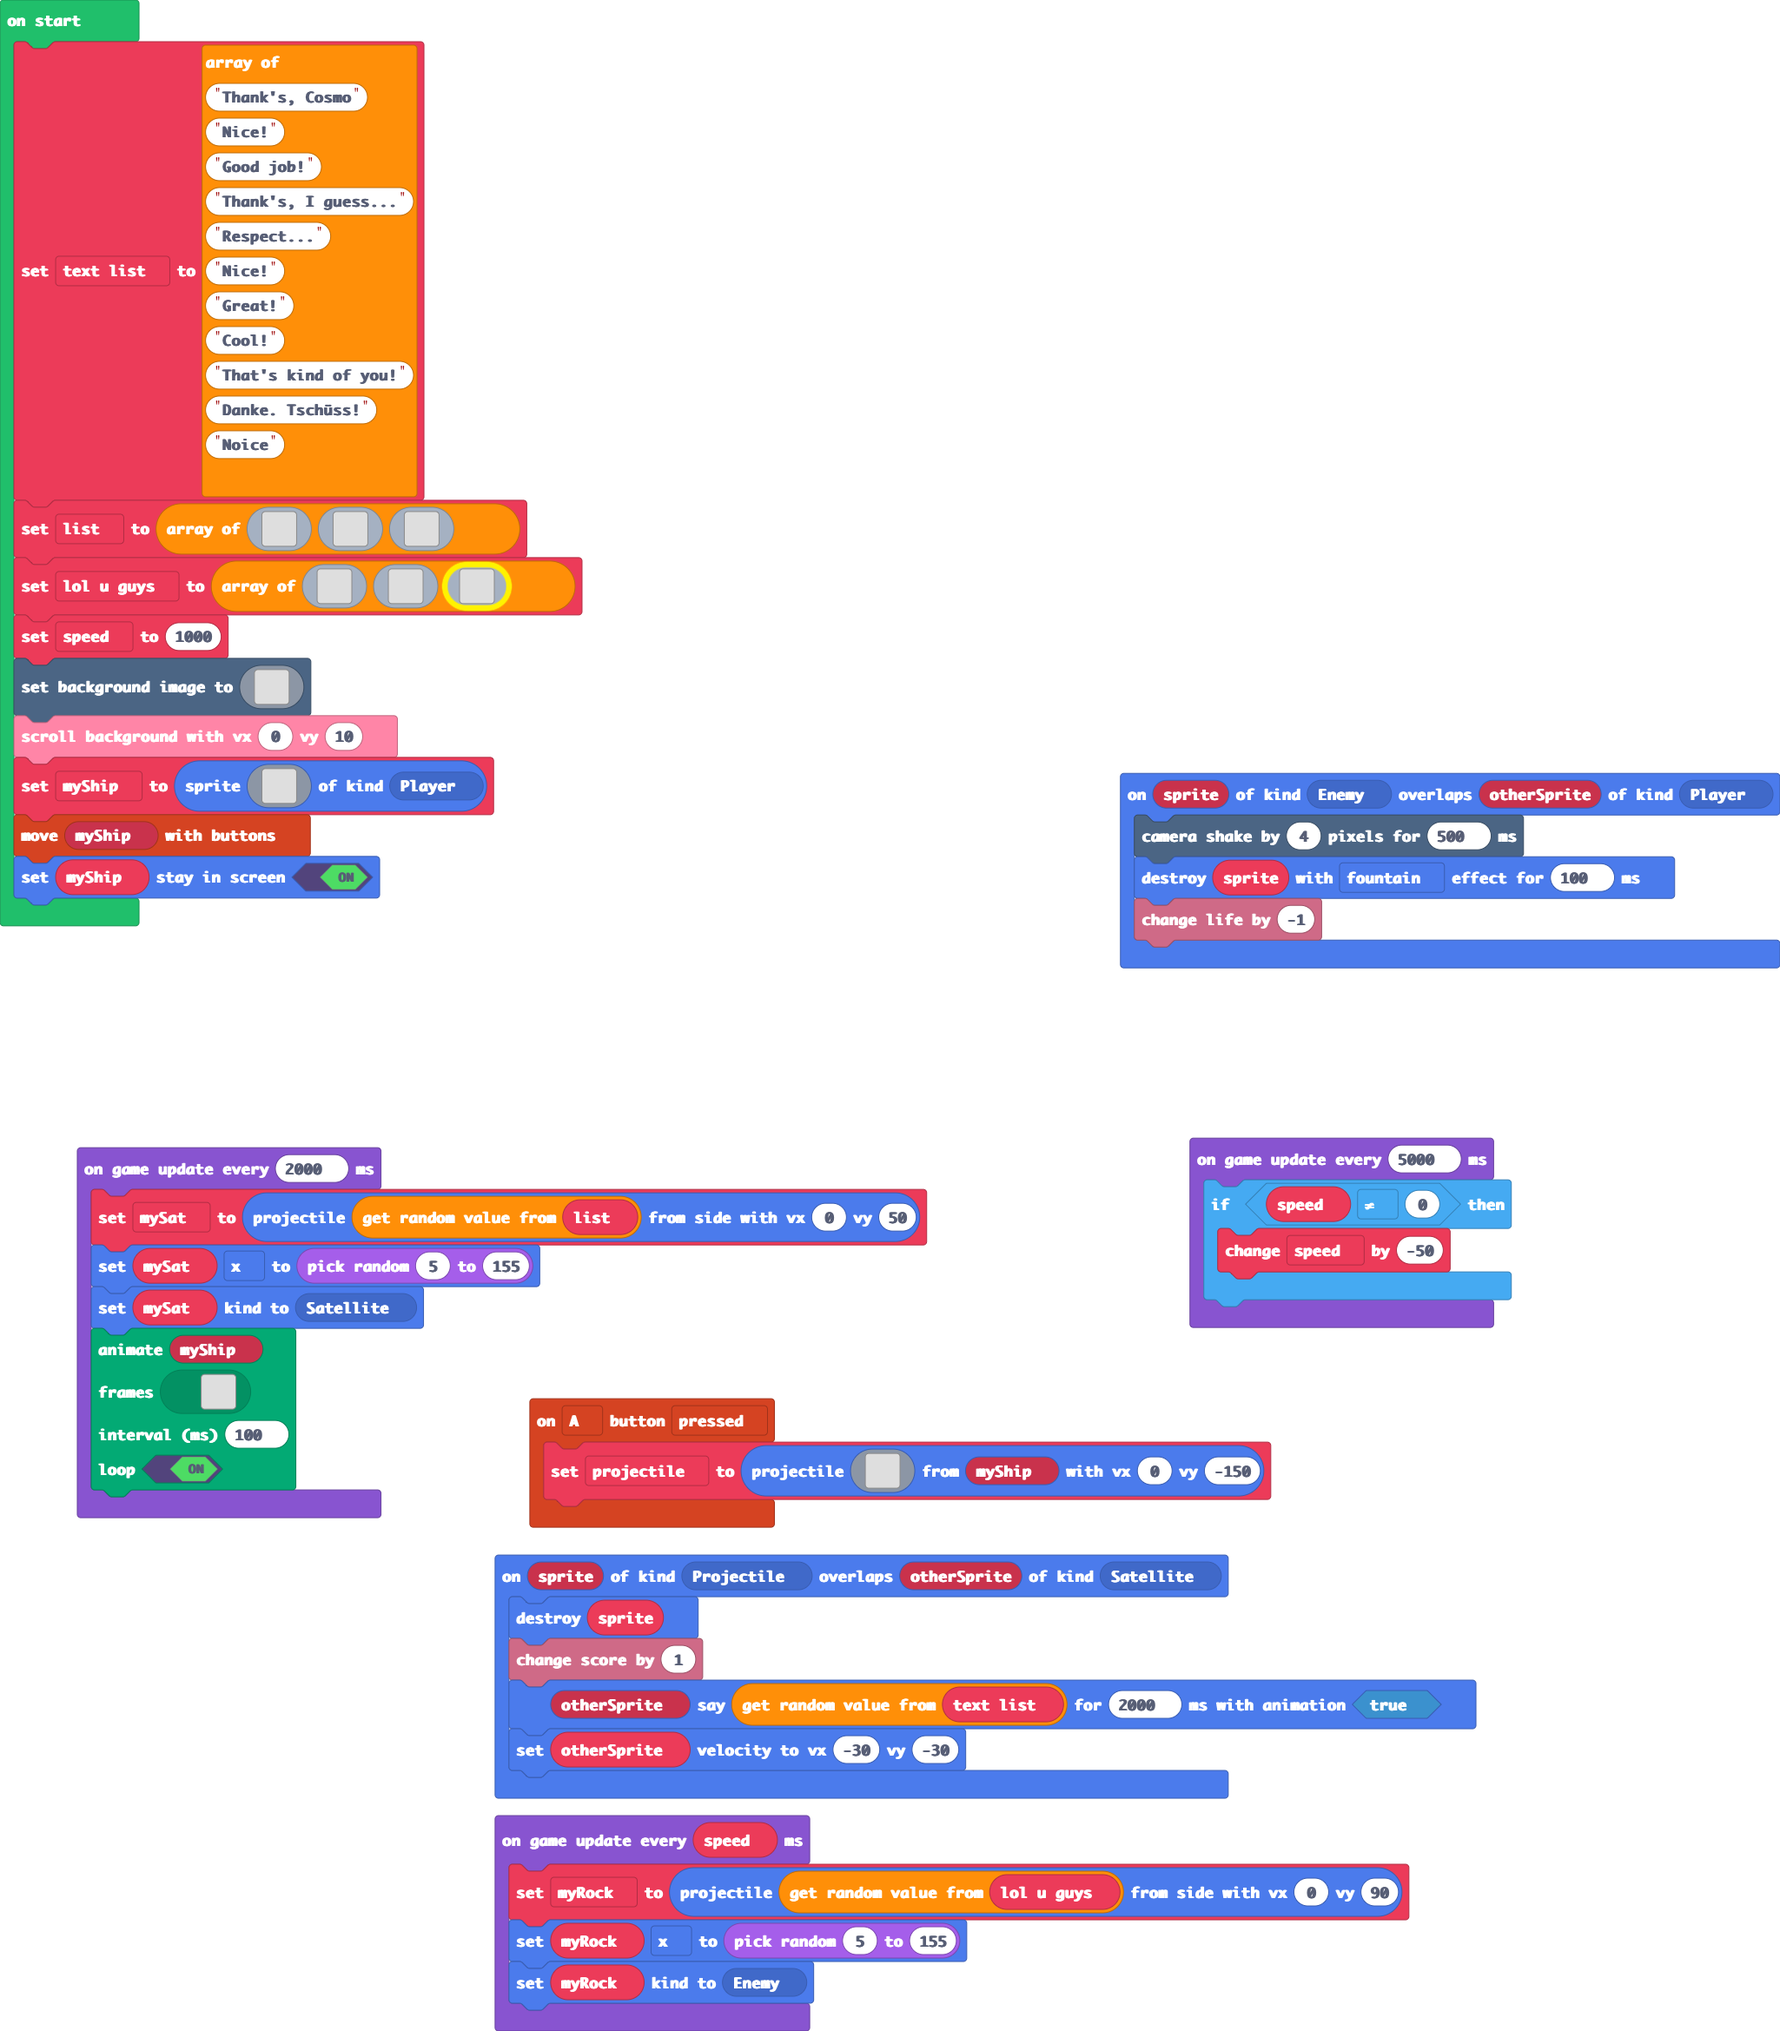
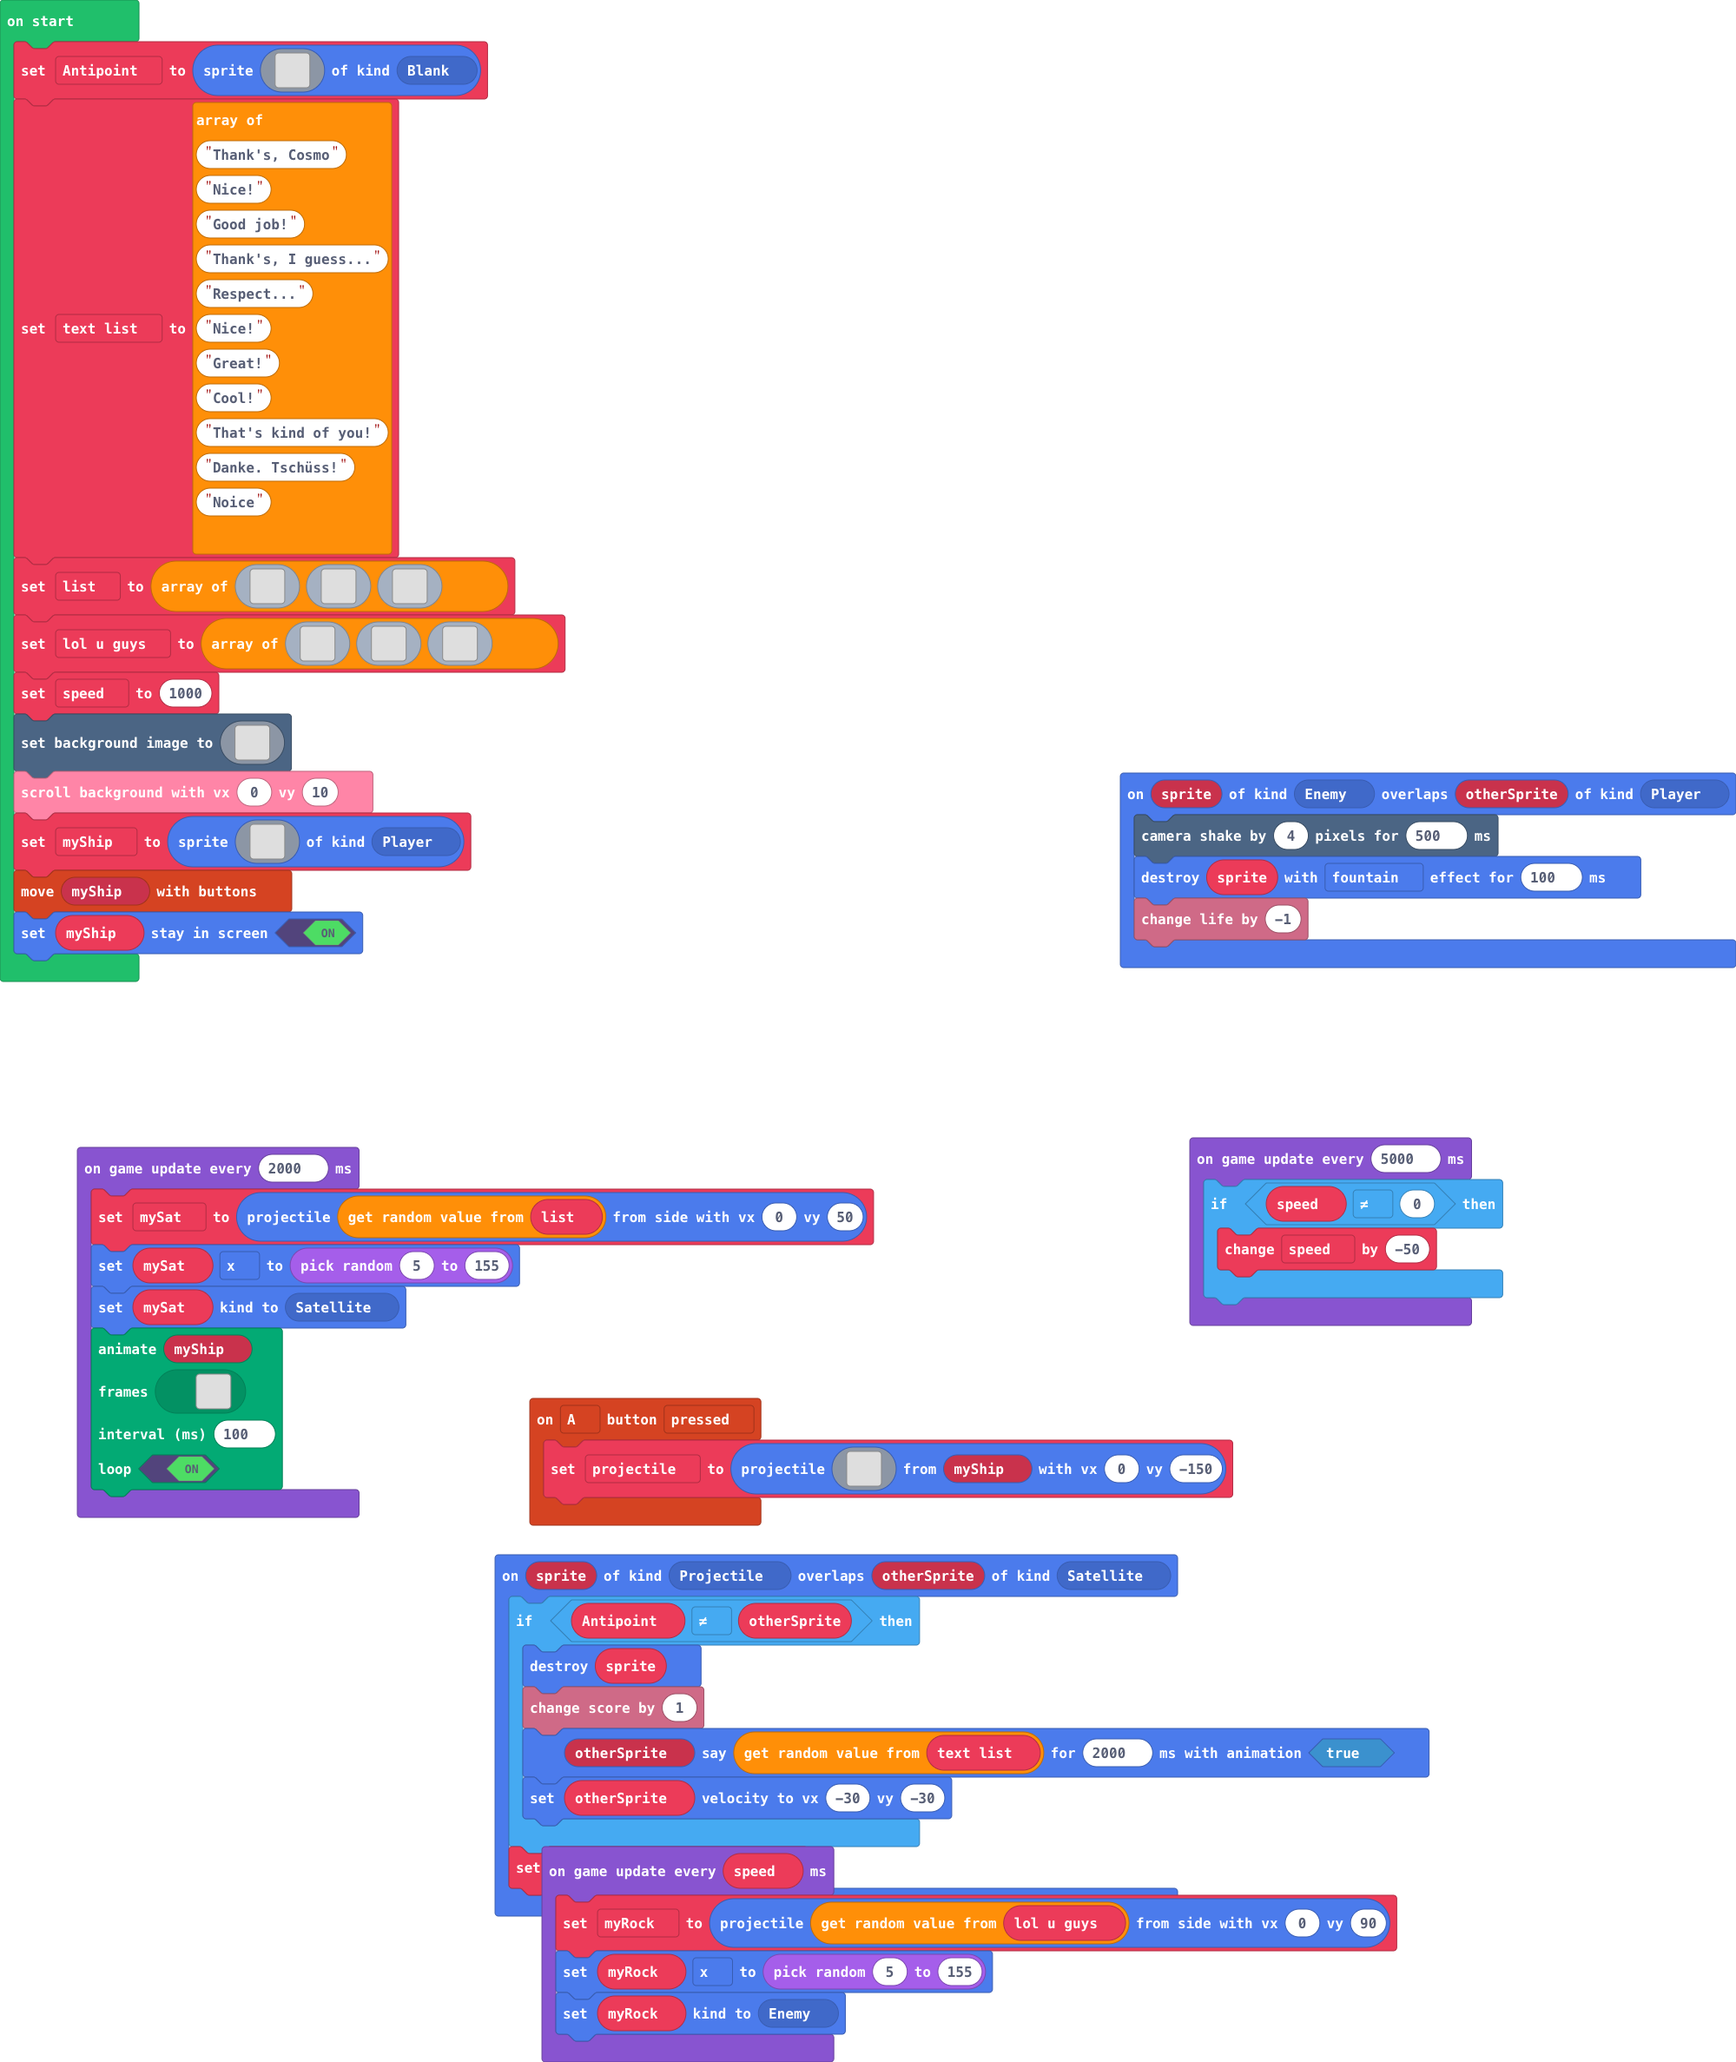
antipoint added

diff --git a/main.ts b/main.ts
@@ -1,8 +1,14 @@
+namespace SpriteKind {
+    export const Blank = SpriteKind.create()
+}
 sprites.onOverlap(SpriteKind.Projectile, SpriteKind.Satellite, function (sprite, otherSprite) {
-    sprite.destroy()
-    info.changeScoreBy(1)
-    otherSprite.sayText(text_list._pickRandom(), 2000, true)
-    otherSprite.setVelocity(-30, -30)
+    if (Antipoint != otherSprite) {
+        sprite.destroy()
+        info.changeScoreBy(1)
+        otherSprite.sayText(text_list._pickRandom(), 2000, true)
+        otherSprite.setVelocity(-30, -30)
+    }
+    Antipoint = otherSprite
 })
 controller.A.onEvent(ControllerButtonEvent.Pressed, function () {
     projectile = sprites.createProjectileFromSprite(img`
@@ -30,6 +36,25 @@ let mySat: Sprite = null
 let projectile: Sprite = null
 let myShip: Sprite = null
 let text_list: string[] = []
+let Antipoint: Sprite = null
+Antipoint = sprites.create(img`
+    . . . . . . . . . . . . . . . . 
+    . . . . . . . . . . . . . . . . 
+    . . . . . . . . . . . . . . . . 
+    . . . . . . . . . . . . . . . . 
+    . . . . . . . . . . . . . . . . 
+    . . . . . . . . . . . . . . . . 
+    . . . . . . . . . . . . . . . . 
+    . . . . . . . . . . . . . . . . 
+    . . . . . . . . . . . . . . . . 
+    . . . . . . . . . . . . . . . . 
+    . . . . . . . . . . . . . . . . 
+    . . . . . . . . . . . . . . . . 
+    . . . . . . . . . . . . . . . . 
+    . . . . . . . . . . . . . . . . 
+    . . . . . . . . . . . . . . . . 
+    . . . . . . . . . . . . . . . . 
+    `, SpriteKind.Blank)
 text_list = [
 "Thank's, Cosmo",
 "Nice!",
